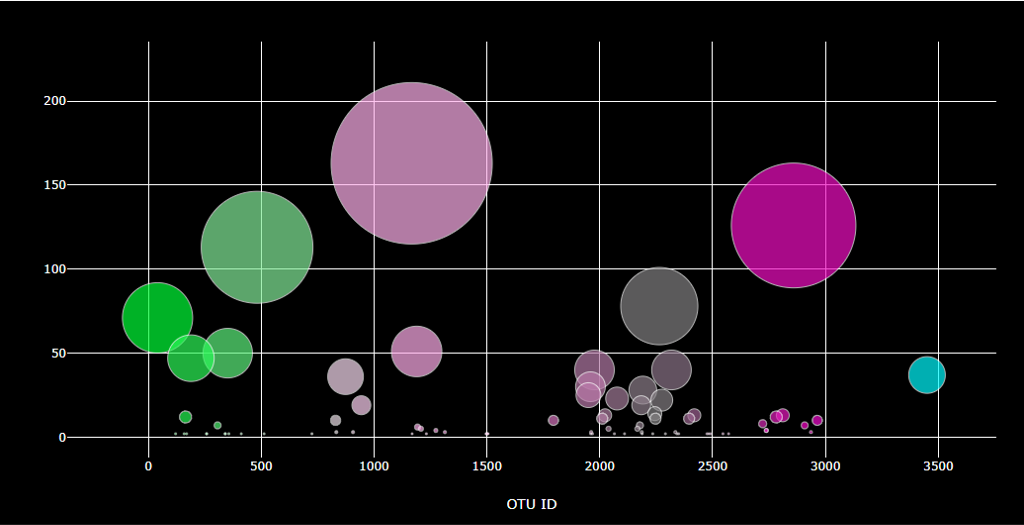
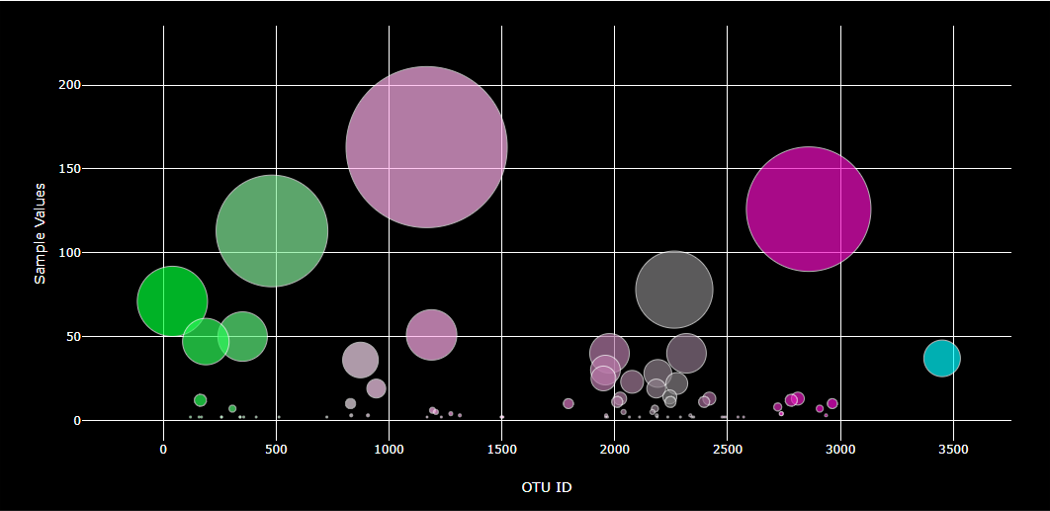
added labels to bubble plot and replaced image

Changed region(s): [[0.0312, 0.0587, 0.9688, 0.91], [0.5, 0.9393, 0.5625, 0.9687]]

diff --git a/static/app.js b/static/app.js
@@ -62,12 +62,12 @@ function barPlot(id){
         var layout = {
             title: "Top Ten OTU Identifications",
             xaxis: { 
-                title: "Operational Taxonomic Units",
+                title: "Frequency",
                 gridcolor:'white',
                 zerolinecolor:'white',
                 },
             yaxis: { 
-                title: "Frequency",
+                title: "Operational Taxonomic Units",
                 gridcolor:'white',
                 zerolinecolor:'white'    
             },
@@ -129,6 +129,7 @@ function bubblePlot(id){
                 gridcolor:'white',
                 zerolinecolor:'white'},
             yaxis:{
+                title:"Sample Values",
                 gridcolor:'white',
                 zerolinecolor:'white',
             },

diff --git a/README.md b/README.md
@@ -10,5 +10,21 @@
 
 Studies undertaken by Hulcr et al., (2012) sought to assess the microbial diversity within the belly button and determine if various factors contributed to the variation that may be present in different individuals. Taking this into consideration, the authors assessed a number of volunteers and factored in various parameters, namely, the individuals age, ethnicity, personal hygiene, and belly button structure (inward or outward protrusion) to determine if there was indeed an influence on the types of microbes that would reside within this region. The results of the study indicated that a so called “oligarchy” of microorganisms did indeed reside amongst the sixty volunteers that were assessed, however, the researches have reported the limitations of predicting what rare microbes may exist based on an individuals characteristics as described above. In order to facilitate further research, the data obtained from the study has been consolidated and uploaded onto a website in the form of a dashboard. Users select a particular participant ID to gain further insights into the microorganisms that were identified. 
 
-## Webdesign
+**Link to the Website:** [Belly Button Microbial Diversity](https://skumble27.github.io/Belly-Button-Biodiversity/)
+
+## Web design
+
+The website was designed using a combination of HTML, JavaScript and CSS. Users have the option to select a specific participant identification which has been provided in the dropdown below as shown in the image below:
+
+**Dropdown menu to select test subject ID** 
+
+![Screenshot 1](https://raw.githubusercontent.com/skumble27/Belly-Button-Biodiversity/main/Images/screenshot1.png)
+
+Based on the selected Identification number, the following data visualisations are available:
+
+![Screenshot 2](https://raw.githubusercontent.com/skumble27/Belly-Button-Biodiversity/main/Images/screenshot2.png)											![Screenshot 3](https://raw.githubusercontent.com/skumble27/Belly-Button-Biodiversity/main/Images/screenshot3.png) 
+
+![Screenshot 4](https://raw.githubusercontent.com/skumble27/Belly-Button-Biodiversity/main/Images/screenshot4.png) 
+
+![Screenshot 5](https://raw.githubusercontent.com/skumble27/Belly-Button-Biodiversity/main/Images/screenshot5.png)									![Screenshot 6](https://raw.githubusercontent.com/skumble27/Belly-Button-Biodiversity/main/Images/screenshot6.png)
 
